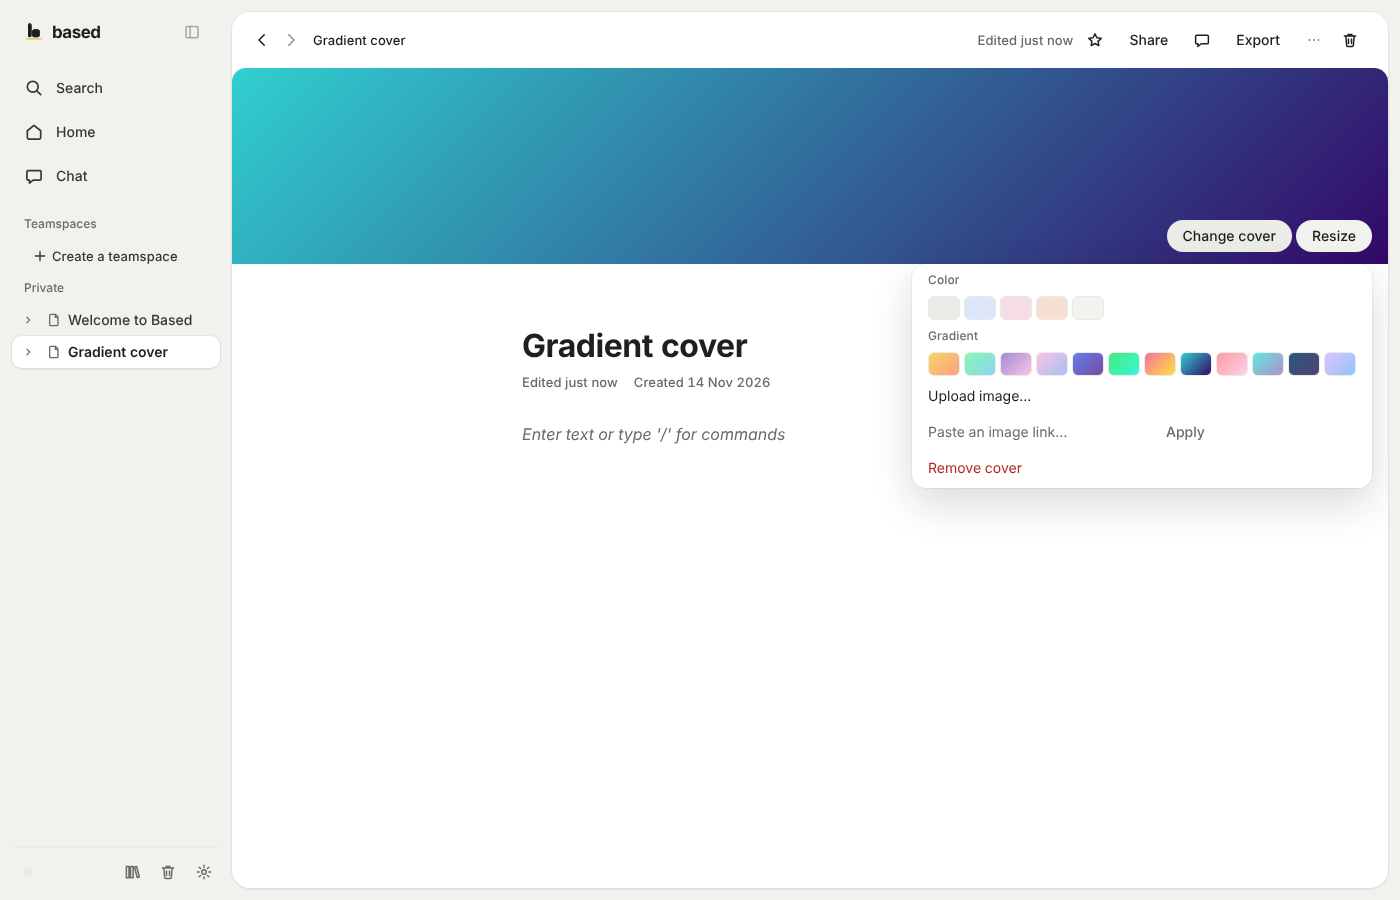
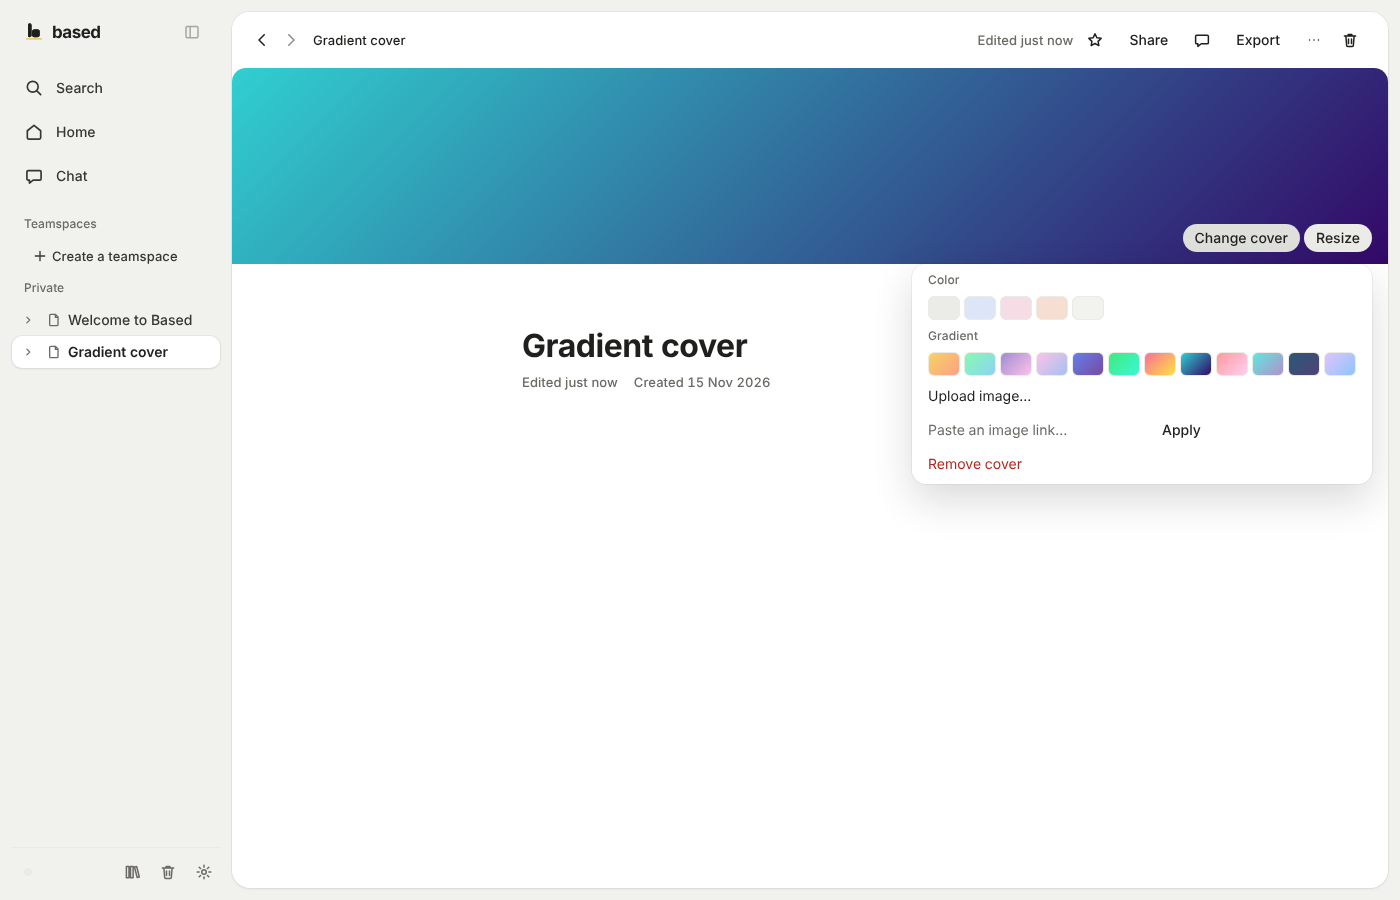
BSD-350 Teil 3: Cover-Knöpfe auf Based-Bausteine
PageCover: „Change cover“, „Reposition/Resize“, „Save position“, „Cancel“ und „Apply“ sind
BasedButton statt roher .btn-Knöpfe (Namen und Verhalten gleich). Design-Wächter-Liste
verkleinert (button 300 → 295). Fotos web-cover-actions-* in drei Größen, hell/dunkel.

Claude-Session: https://claude.ai/code/session_01F33L4kmzHDtsgsgihpdbAU

diff --git a/apps/web/src/components/PageCover.tsx b/apps/web/src/components/PageCover.tsx
@@ -4,6 +4,7 @@ import { useEffect, useRef, useState } from "react";
 import { ASSET_URL_PREFIX } from "@based/editor";
 import { COVER_HEIGHT_MAX, COVER_HEIGHT_MIN, coverHeight, setCoverHeight, pageCover, setCoverPosition, setPageCover, setPageIconImage, type CoverAsset, type PageCoverValue, type WorkspaceStore } from "@based/core";
 import { assets } from "../assetBridge.js";
+import { BasedButton } from "@based/ui/astryx";
 
 /** Farben fürs Cover: nur Töne, für die es Tokens gibt (Status-Tönungen); weitere Farben/Verläufe sind eine Designfrage. */
 export const COVER_COLORS: { id: string; label: string; css: string }[] = [
@@ -80,7 +81,7 @@ export function CoverPicker({ store, pageID, onClose, hasCover }: { store: Works
       }} />
       <form className="cover-link" onSubmit={(e) => { e.preventDefault(); if (/^https?:\/\//.test(link.trim())) set({ url: { _0: link.trim() } }); }}>
         <input className="field" aria-label="Image link" placeholder="Paste an image link…" value={link} onChange={(e) => setLink(e.target.value)} />
-        <button type="submit" className="btn ghost">Apply</button>
+        <BasedButton type="submit" variant="ghost" size="sm" label="Apply" />
       </form>
       {hasCover ? <button type="button" className="menu-item danger" onClick={() => set(undefined)}>Remove cover</button> : null}
     </div>
@@ -142,13 +143,13 @@ export function PageCoverBand({ store, pageID, readOnly, position }: { store: Wo
         <div className="page-cover-actions" data-visible={editing ? "" : undefined}>
           {editing ? (
             <>
-              <button type="button" className="btn" onClick={save}>Save position</button>
-              <button type="button" className="btn ghost" onClick={cancel}>Cancel</button>
+              <BasedButton variant="secondary" size="sm" label="Save position" onClick={save} />
+              <BasedButton variant="ghost" size="sm" label="Cancel" onClick={cancel} />
             </>
           ) : (
             <>
-              <button type="button" className="btn" onClick={() => setPicker((o) => !o)}>Change cover</button>
-              <button type="button" className="btn" onClick={() => { setPicker(false); setEditing(true); }}>{image ? "Reposition" : "Resize"}</button>
+              <BasedButton variant="secondary" size="sm" label="Change cover" onClick={() => setPicker((o) => !o)} />
+              <BasedButton variant="secondary" size="sm" label={image ? "Reposition" : "Resize"} onClick={() => { setPicker(false); setEditing(true); }} />
             </>
           )}
         </div>

diff --git a/apps/web/e2e/page-cover.spec.ts b/apps/web/e2e/page-cover.spec.ts
@@ -130,5 +130,13 @@ for (const theme of ["light", "dark"] as const) {
     await page.getByTestId("page-cover").getByRole("button", { name: "Change cover" }).click();
     await page.waitForTimeout(250);
     await page.screenshot({ path: `../../docs/design/screens/web-cover-gallery-${theme}.png` });
+    // BSD-350 Teil 3: Knöpfe auf dem Cover sind Based-Knöpfe – Checkliste in drei Größen
+    for (const [w, h] of [[1280, 820], [900, 600], [1728, 1000]] as const) {
+      await page.setViewportSize({ width: w, height: h });
+      await page.mouse.move(10, h - 10);
+      await page.getByTestId("page-cover").hover();
+      await page.waitForTimeout(250);
+      await page.screenshot({ path: `../../docs/design/screens/web-cover-actions-${theme}-${w}x${h}.png` });
+    }
   });
 }
